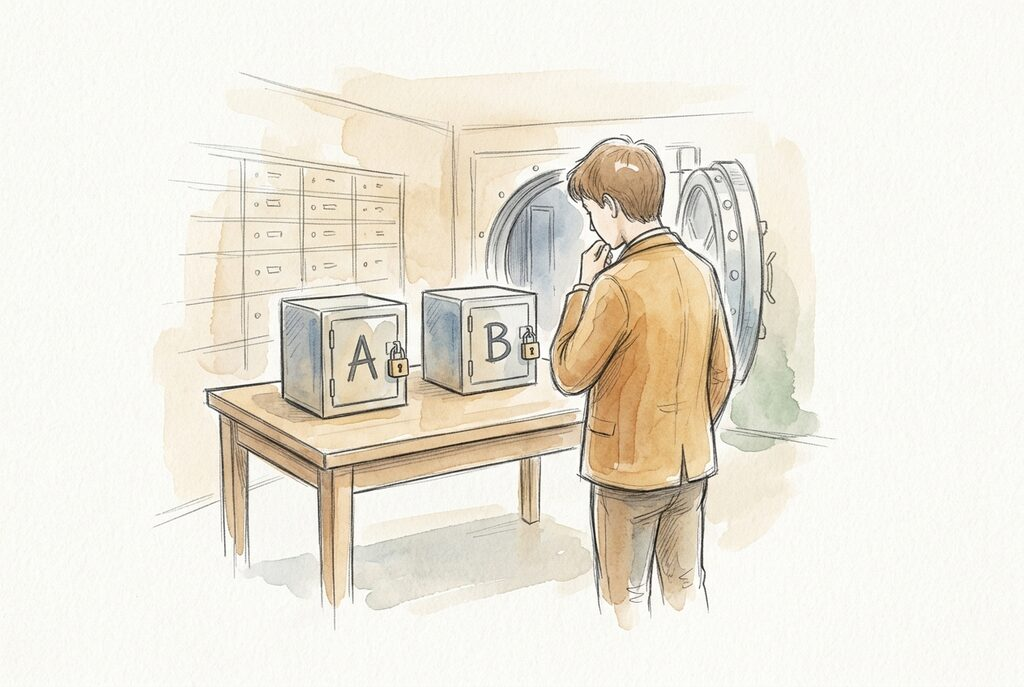
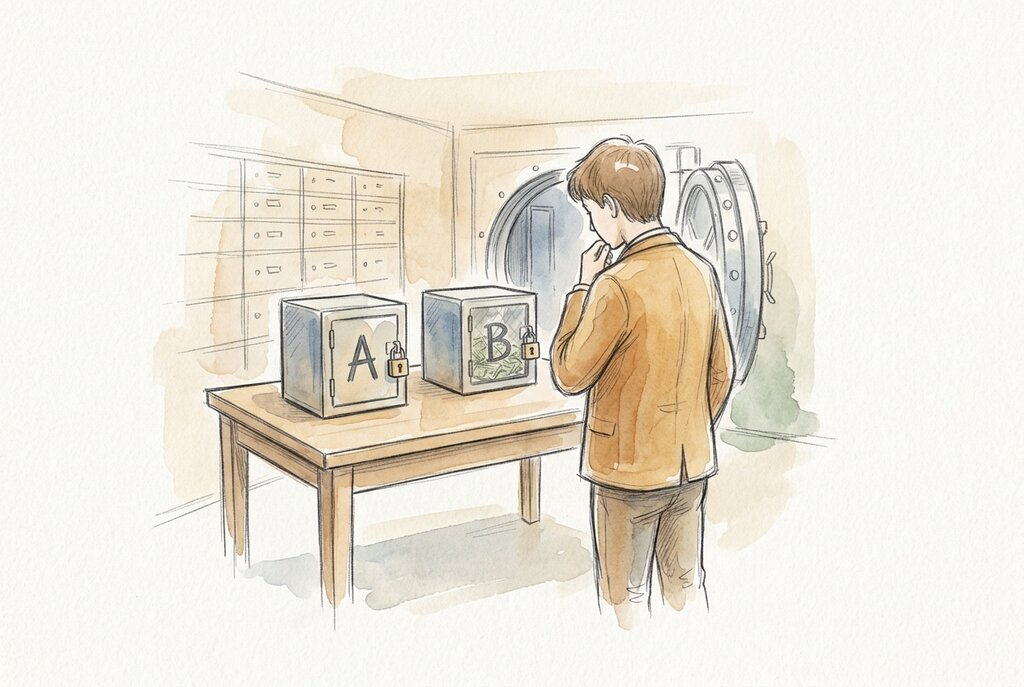
clarify Newcomb's Paradox note to make the choice harder

Changed region(s): [[0.4375, 0.4279, 0.5312, 0.5808]]

diff --git a/src/content/notes/newcombs-paradox-grandpa-framing.md b/src/content/notes/newcombs-paradox-grandpa-framing.md
@@ -7,28 +7,29 @@ topics: [decision-theory]
 
 Assume that as a child you had a very close and loving relationship with your
 grandpa. You spent a lot of time together and he got to know you very well
-until the age of 14, when, sadly, he passed away. He was an excellent
+until you were 14, when, sadly, he passed away. He was an excellent
 psychologist with a keen intuition for people's personalities and choices. You
-know of 25 cases in which he made predictions about family members making
-important decisions, being right in 20 of them (i.e. 80%). He was also quite
+know of 25 cases in which he made predictions about family members' important
+decisions, and he was right in 20 of them (i.e. 80%). He was also quite
 wealthy and had an _interesting_ sense of humor.
 
 ![A smiling grandfather in a cardigan plays chess with a young boy at a kitchen
 table, watching the boy rather than the
 board.](../../assets/notes/newcombs-paradox-grandpa-framing/grandpa-chess.jpg)
 
-About four years later, on your 18th birthday you get a letter from your
+About four years later, on your 18th birthday, you get a letter from your
 grandpa's lawyer who informs you that before passing away he wanted to leave
-you a legacy. For this purpose he personally locked two solid metal boxes
-inside the vault of a Swiss bank. The first box is labelled A and the second B.
-When you enter the vault you can see both locked boxes, but not their content.
-A bank employee will unlock and hand you either box A or both box A and box B,
-depending on your choice (if you insist you could also choose only B, but it
-will hardly seem sensible). In fact you are allowed to stay in the vault as
-long as you want considering your decision. Nobody will be in there with you
+you a legacy. For this purpose he personally locked two metal boxes inside the
+vault of a Swiss bank. The first box is labelled A and the second B. When you
+enter the vault you can see both locked boxes. You **can't** see the contents
+of box A, but box B has a reinforced glass window so you can see the money
+inside. A bank employee will unlock and hand you either box A or both box A and
+box B, depending on your choice (if you insist you could also choose only B,
+but it will hardly seem sensible). In fact, you are allowed to stay in the vault
+as long as you want to consider your decision. Nobody will be in there with you
 until you call the employee to announce your choice. The bank is under strict
 instructions to destroy what remains of the boxes, including their content, as
-soon as you exit the vault. Your grandpa tried to make a prediction whether you
+soon as you exit the vault. Your grandpa tried to predict whether you
 would choose only box A or both box A and box B.
 
 ![A young man stands alone in a bank vault, hand on his chin, looking at two
@@ -38,18 +39,21 @@ table.](../../assets/notes/newcombs-paradox-grandpa-framing/vault.jpg)
 According to the will:
 
 - If his prediction was that you would open only box A then he placed
-  $1,000,000 in box A as well as $1,000 in box B.
+  $1,000,000 in box A as well as $20,000 in box B.
 - If his prediction was that you would open both boxes, then he placed **only**
-  $1,000 in box B and left box A empty.
+  $20,000 in box B and left box A empty.
 
-In other words, box B always contains $1,000 and box A may be empty or contain
+In other words, box B always contains $20,000 and box A may be empty or contain
 $1,000,000.
 
 Nobody knows what the prediction was and nobody has so far looked into the
 boxes. There is no time travel, no magic tricks, no helpers who quickly switch
-the content of the boxes and your grandpa is really dead.
+the content of the boxes and your grandpa is really dead. The boxes are already
+filled with money or not and there are no tricks to change that after you make
+your decision.
 
-What do you do? Which box(es) do you open?
+What do you do? Do you walk out with only box A, leaving the $20,000 in box B
+_you can actually see_ on the table? Or do you walk out with both boxes?
 
 ## Background
 
@@ -69,7 +73,7 @@ Carlsmith briefly sketches this framing for Newcomb's Paradox.
 
 I like this framing so I spelled it out above to use in the future when
 explaining Newcomb's Paradox, since I find that some people bounce off the
-omniscient Omega framing.
+_near-perfect Omega_ framing.
 
 ---
 
